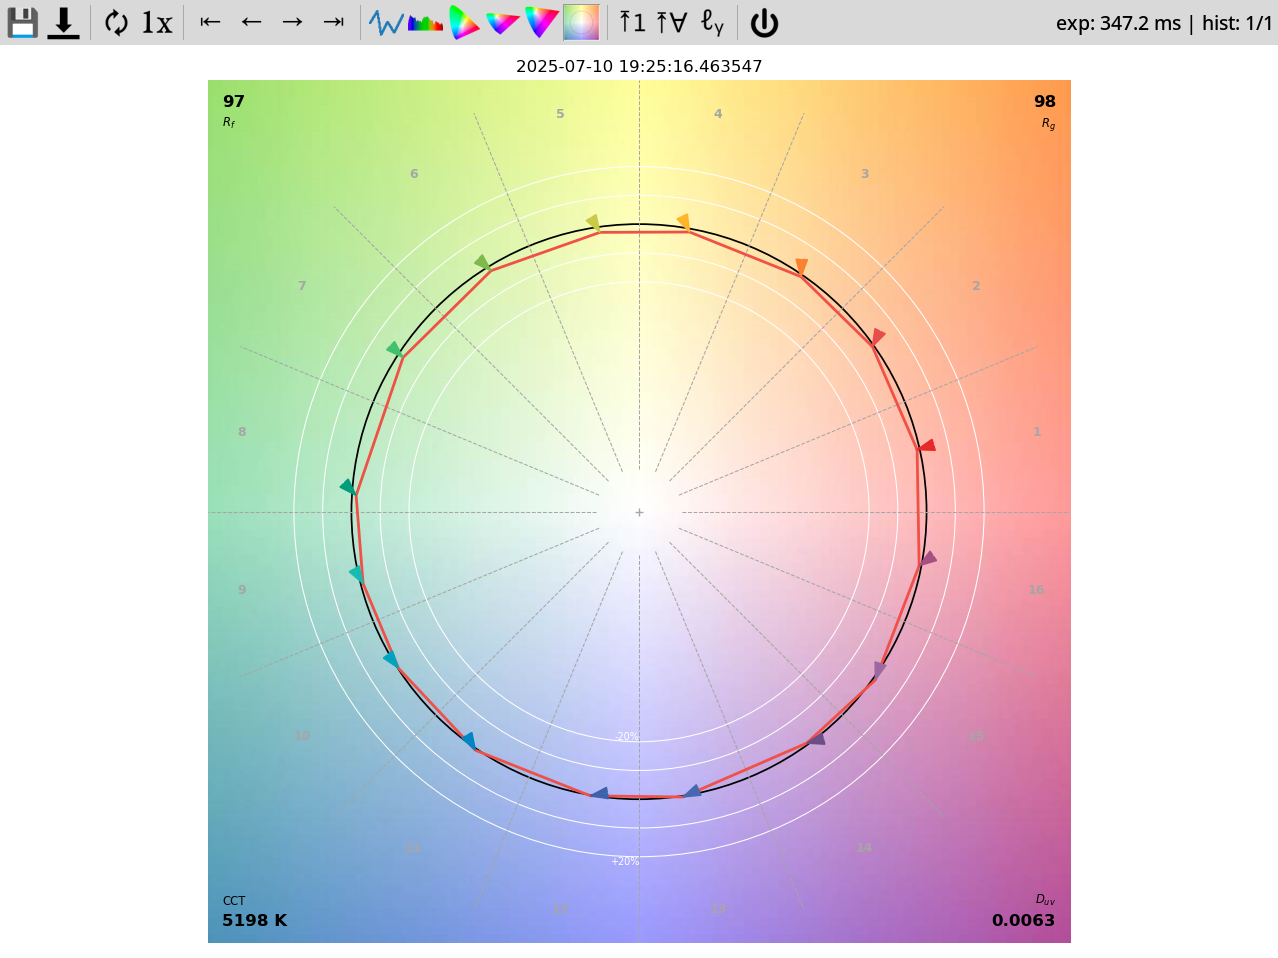
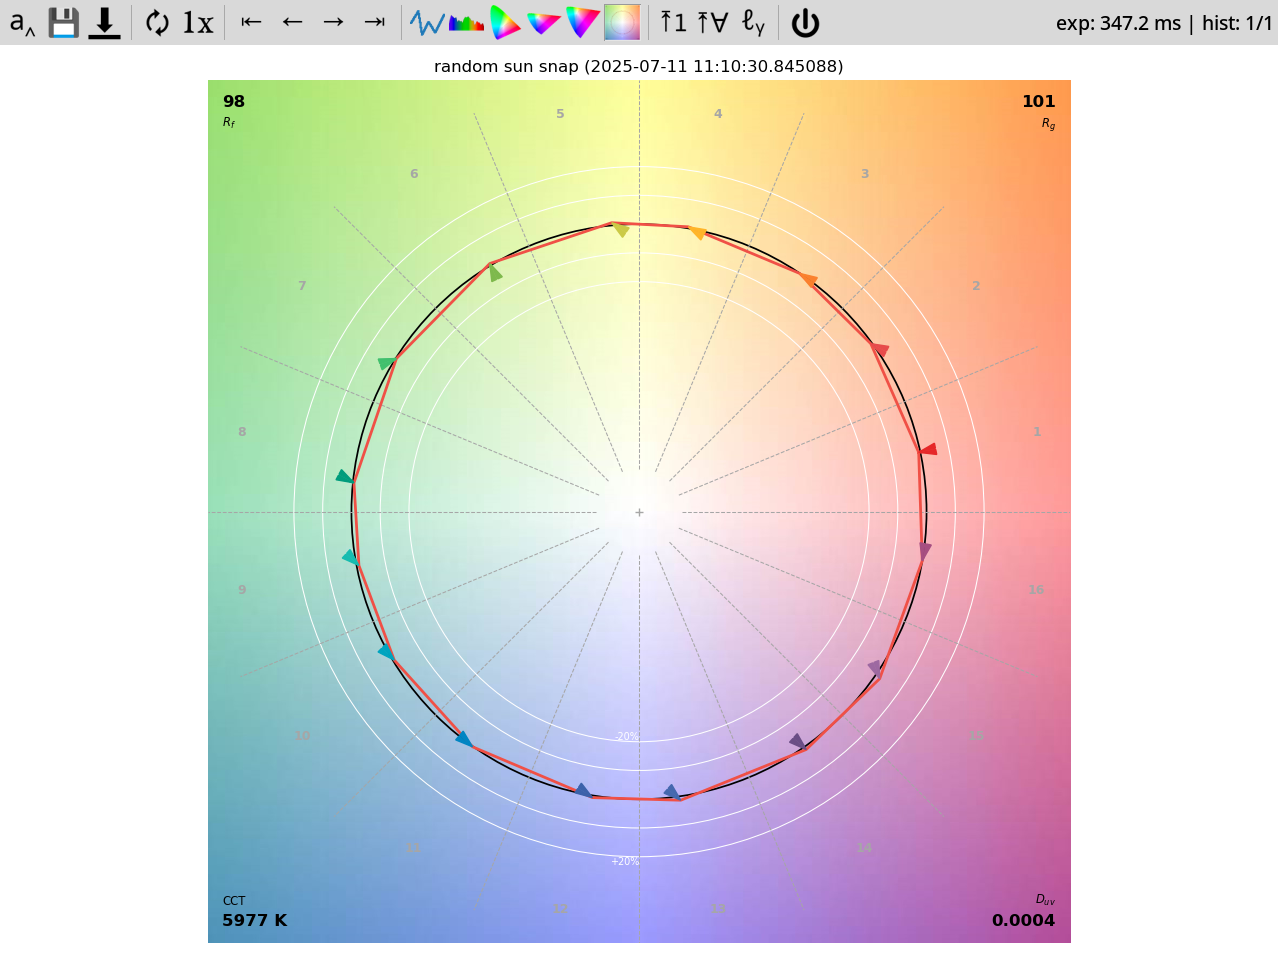
Add support for spectrum naming

diff --git a/tobes_ui/plot.py b/tobes_ui/plot.py
@@ -29,7 +29,7 @@ from .types import GraphType, RefreshType
 from .tools import (
     RefreshTool, OneShotTool, HistoryStartTool, HistoryBackTool, HistoryForwardTool,
     HistoryEndTool, GraphSelectTool, FixYRangeGlobalTool, FixYRangeTool, LogYScaleTool,
-    PowerTool, PlotSaveTool, RawSaveTool)
+    PowerTool, PlotSaveTool, RawSaveTool, NameTool)
 
 # pylint: disable=broad-exception-caught
 # pylint: disable=too-many-instance-attributes
@@ -46,7 +46,6 @@ class RefreshableSpectralPlot:
         self._history_index = -1
         self._fixed_y_global_lim = None
         self.max_history_size = history_size
-        self.data = None
         # Load 'em all up
         if initial_data:
             for spectrum in initial_data:
@@ -74,6 +73,19 @@ class RefreshableSpectralPlot:
         self.fix_y_range_global = False
         self.fixed_y_lim = None
         self.log_y_scale = False
+
+    @property
+    def name(self):
+        """Name of current graph"""
+        if self.data:
+            return self.data.name
+        return None
+
+    @name.setter
+    def name(self, value):
+        """Setter for name"""
+        if self.data:
+            self.data.name = value
 
     @property
     def data(self):
@@ -311,6 +323,12 @@ class RefreshableSpectralPlot:
 
                 self.axes.set_ylim(current_lim)
 
+    def _graph_title(self, spd):
+        """Title for the graph based on current name and Spectrum's name"""
+        if self.data and self.data.name:
+            return f'{self.data.name} ({spd.name})'
+        return spd.name
+
     def _draw_graph(self):
         """Draw graph based on configuration"""
 
@@ -325,13 +343,13 @@ class RefreshableSpectralPlot:
         match self.graph_type:
             case GraphType.CIE1931:
                 plot_planckian_locus_in_chromaticity_diagram_CIE1931(
-                        {"X": xy_point}, title=spd.name, **kwargs)
+                        {"X": xy_point}, title=self._graph_title(spd), **kwargs)
             case GraphType.CIE1960UCS:
                 plot_planckian_locus_in_chromaticity_diagram_CIE1960UCS(
-                        {"X": xy_point}, title=spd.name, **kwargs)
+                        {"X": xy_point}, title=self._graph_title(spd), **kwargs)
             case GraphType.CIE1976UCS:
                 plot_planckian_locus_in_chromaticity_diagram_CIE1976UCS(
-                        {"X": xy_point}, title=spd.name, **kwargs)
+                        {"X": xy_point}, title=self._graph_title(spd), **kwargs)
             case GraphType.TM30:
                 cct = colour.temperature.xy_to_CCT(xy_point, method='daylight')
                 spec = colour_fidelity_index_ANSIIESTM3018(spd)
@@ -344,7 +362,7 @@ class RefreshableSpectralPlot:
                             bbox={"facecolor": 'white', "alpha": 0.9, "pad": 20})
 
                 else:
-                    plt.title(f"{spd.display_name}")
+                    plt.title(self._graph_title(spd))
                     spec_full = colour_fidelity_index_ANSIIESTM3018(spd, True)
                     kwargs.update({'hspace': CONSTANTS_COLOUR_STYLE.geometry.short / 2})
                     plot_colour_vector_graphic(spec_full, **kwargs)
@@ -361,7 +379,7 @@ class RefreshableSpectralPlot:
                 colour.plotting.plot_single_sd(spd, cmfs, **kwargs)
                 plt.xlabel("Wavelength $\\lambda$ (nm)")
                 plt.ylabel("Spectral Distribution ($W/m^2$)")
-                plt.title(f"{spd.display_name}")
+                plt.title(self._graph_title(spd))
 
                 self._tweak_y_axis(spd)
 
@@ -369,7 +387,7 @@ class RefreshableSpectralPlot:
                 # GraphType.LINE goes here, too
                 self.axes.set_aspect('auto')
                 self.fig.tight_layout()
-                plt.title(f"{spd.display_name}")
+                plt.title(self._graph_title(spd))
                 self.axes.plot(list(spd.wavelengths),
                              list(spd.values),
                              label='Spectral Distribution')
@@ -469,7 +487,10 @@ class RefreshableSpectralPlot:
                               file_template=self.file_template)
             tool_mgr.add_tool("raw_save", RawSaveTool, plot=self,
                               file_template=self.file_template)
+            tool_mgr.add_tool("name", NameTool, plot=self)
 
+
+            self.fig.canvas.manager.toolbar.add_tool(tool_mgr.get_tool("name"), "export")
             self.fig.canvas.manager.toolbar.add_tool(tool_mgr.get_tool("plot_save"), "export")
             self.fig.canvas.manager.toolbar.add_tool(tool_mgr.get_tool("raw_save"), "export")
             if not self.refresh_type == RefreshType.DISABLED:

diff --git a/tobes_ui/spectrometer.py b/tobes_ui/spectrometer.py
@@ -1,10 +1,12 @@
 """Class to talk to the Torch Bearer Spectrometer"""
 
+# pylint: disable=too-many-instance-attributes
+
+from dataclasses import dataclass
 from datetime import datetime
 import json
 import pprint
 import struct
-from typing import NamedTuple
 
 import colour
 from serial import Serial
@@ -18,15 +20,17 @@ from .protocol import (
 )
 
 
-class Spectrum(NamedTuple):
+@dataclass
+class Spectrum:
     """Wraps measured spectrum"""
     status: ExposureStatus
     exposure: ExposureMode
     time: float
     spd: dict[int, float]
-    wavelength_range: int
+    wavelength_range: tuple[int, int]
     spd_raw: list[float]
-    ts: datetime
+    ts: datetime # pylint: disable=invalid-name
+    name: str
 
     def to_json(self) -> str:
         """Convert Spectrum to json"""
@@ -36,11 +40,12 @@ class Spectrum(NamedTuple):
             "time": self.time,
             "spd": self.spd,
             "wavelength_range": [
-                self.wavelength_range.start,
-                self.wavelength_range.stop
+                self.wavelength_range[0],
+                self.wavelength_range[1]
             ],
             "spd_raw": self.spd_raw,
             "ts": self.ts.timestamp(),
+            "name": self.name,
         }, indent=4)
 
     def to_spectral_distribution(self):
@@ -56,6 +61,8 @@ class Spectrum(NamedTuple):
             data["wavelength_range"] = [min(wls), max(wls)]
         if "spd_raw" not in data:
             data["spd_raw"] = [v for k, v in data["spd"].items()]
+        if "name" not in data:
+            data["name"] = None
         return cls(
             status=data["status"],
             exposure=data["exposure"],
@@ -66,7 +73,8 @@ class Spectrum(NamedTuple):
                 data["wavelength_range"][1]
             ),
             spd_raw=data["spd_raw"],
-            ts=datetime.fromtimestamp(data["ts"])
+            ts=datetime.fromtimestamp(data["ts"]),
+            name=data["name"]
         )
 
     @classmethod
@@ -225,7 +233,8 @@ class Spectrometer:
                     },
                     wavelength_range=spec_range,
                     spd_raw=response["spectrum"],
-                    ts=datetime.now()
+                    ts=datetime.now(),
+                    name=None
             )
 
             if where_to:

diff --git a/tobes_ui/tools.py b/tobes_ui/tools.py
@@ -1,6 +1,7 @@
 """Matplotlib toolbar tools for the UI"""
 
 import os
+from tkinter import simpledialog
 
 from matplotlib.backend_tools import ToolBase, ToolToggleBase
 
@@ -293,3 +294,29 @@ class LogYScaleTool(ToolToggleBase):
     def disable(self, event=None):
         self.plot.log_y_scale = False
         self.plot.dirty = True
+
+
+class NameTool(ToolBase):
+    """Name the current spectrum data"""
+    description = 'Name the current spectrum data (key: enter || A)'
+    default_keymap = ['enter', 'a', 'A']
+
+    def __init__(self, *args, plot, **kwargs):
+        self.plot = plot
+        script_dir = os.path.dirname(os.path.abspath(__file__))
+        self.image = os.path.join(script_dir, "../icons/name")
+        super().__init__(*args, **kwargs)
+
+    def trigger(self, *_args, **_kwargs):
+        if not self.plot.data:
+            return
+
+        widget = self.plot.fig.canvas.get_tk_widget()
+        result = simpledialog.askstring("Plot name", "Plot name:",
+                                        parent=widget.winfo_toplevel(),
+                                        initialvalue=self.plot.name)
+        if result is not None:
+            self.plot.name = result
+            self.plot.dirty = True
+
+        widget.focus_set()

diff --git a/main.py b/main.py
@@ -7,6 +7,7 @@ import pprint
 import signal
 import sys
 
+import matplotlib
 from matplotlib.backend_tools import default_toolbar_tools
 
 from tobes_ui.plot import RefreshableSpectralPlot
@@ -185,6 +186,7 @@ if __name__ == "__main__":
         else:
             refresh = RefreshType.CONTINUOUS
 
+        matplotlib.use("TkAgg")
         app = RefreshableSpectralPlot(
                 data,
                 refresh_func=meter.stream_data if meter else None,

diff --git a/helpers/create_icons.py b/helpers/create_icons.py
@@ -55,4 +55,7 @@ if __name__ == "__main__":
         create_text_icon("ℓᵧ", font, 24, "icons/log_yscale.png", 0, -0.1)
         create_text_icon("ℓᵧ", font, 48, "icons/log_yscale_large.png", 0, -0.1)
 
+        create_text_icon("a‸", font, 24, "icons/name.png", 0, -0.1)
+        create_text_icon("a‸", font, 48, "icons/name_large.png", 0, -0.1)
+
     main()

diff --git a/README.md b/README.md
@@ -69,6 +69,7 @@ There are several icons on the toolbar:
 
 | Icon | Key | Explanation |
 |:---|:---:|:---|
+| ![name](icons/name.png) | `Enter`, `A` | Name the current spectrum data |
 | ![save](icons/plot_save.png) | `S` | Saves rendered graph as png |
 | ![download](icons/raw_save.png) | `D` | Save raw data as json |
 | ![refresh](icons/refresh.png) | `R` | Keep refreshing data |
@@ -147,7 +148,8 @@ Sample exported data:
         0.004944,
         0.004859
     ],
-    "ts": 1751704901.025932
+    "ts": 1751704901.025932,
+    "name": "my fancy spectrum"
 }
 ```
 
